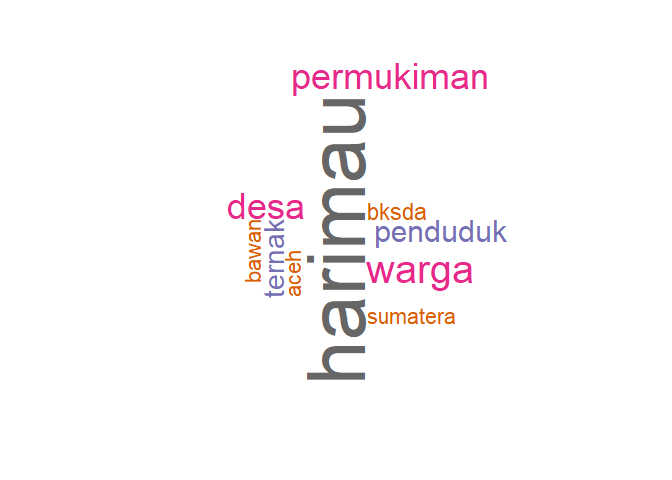
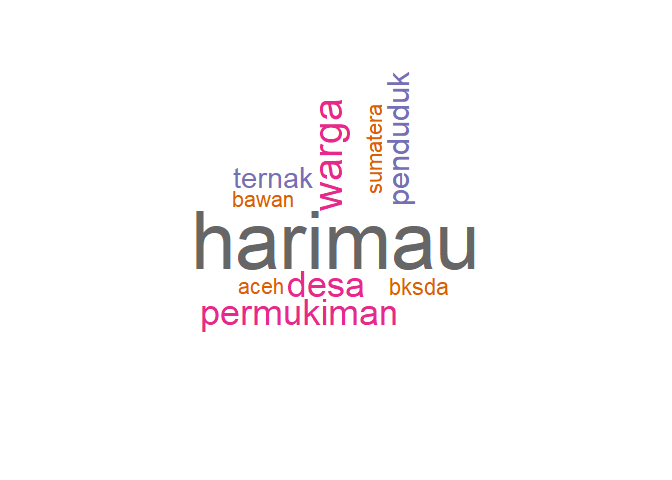
Use base R for data cleaning

Changed region(s): [[0.2812, 0.125, 0.75, 0.8125]]

diff --git a/README.md b/README.md
@@ -192,9 +192,8 @@ Membedah website dengan SelectorGadget
     paket yang diperlukan dengan menjalankan perintah berikut:
 
 ``` r
-library(rvest)
-library(xml2)
-library(tidyverse)
+library(rvest) # Untuk web scraping
+library(tidyverse) # Untuk data cleaning
 ```
 
 Dengan demikian, Anda dapat mulai menulis dan menjalankan kode web
@@ -463,49 +462,48 @@ diinginkan, normalisasi teks seperti mengubah semua huruf menjadi huruf
 kecil yang konsisten atau mengembalikan kata-kata ke bentuk dasar,
 penghapusan data duplikat, validasi data, penghapusan spasi, dan
 penghapusan kata-kata umum yang tidak memberikan makna jika digunakan
-sendiri, seperti ‘dan’, ‘atau’, ‘dari’, ‘ke’, dan lainnya.
+sendiri, seperti ‘dan’, ‘atau’, ‘dari’, ‘ke’, dan lainnya. Daftar
+*stopwords* untuk bahasa Indonesia dapat di download pada [link github
+ini](https://github.com/masdevid/ID-Stopwords)
 
 Tahapan selanjutnya adalah membersihkan data hasil web scraping,
 terutama pada bagian isi berita di mana informasi yang akan dianalisis
 terdapat.
 
 ``` r
-# Memanggil library khusus untuk teks mining
-library(tm)
-#> Loading required package: NLP
-#> 
-#> Attaching package: 'NLP'
-#> The following object is masked from 'package:ggplot2':
-#> 
-#>     annotate
-library(corpus)
-
 # Memanggil contoh data yang akan dibersihkan yang merupakan gabungan dari beberapa isi berita
 teks_kotor <- paste(web_scraping$Berita[1], web_scraping$Berita[2], web_scraping$Berita[3], 
                     web_scraping$Berita[4], web_scraping$Berita[5]) 
 
-# Mengubah ke format COrpus untuk pembersihan
-teks_corpus <- Corpus(VectorSource(teks_kotor))
-
-# Merubah ke huruf kecil
-teks_corpus <- tm_map(teks_corpus, content_transformer(tolower))
+# Merubah semua teks menjadi huruf kecil
+teks_bersih_kecil <- tolower(teks_kotor)
 
 # Menghapus tanda baca
-teks_corpus <- tm_map(teks_corpus, removePunctuation)
+teks_bersih_tandabaca <- gsub("[[:punct:]]", "", teks_bersih_kecil)
 
 # Menghapus angka
-teks_corpus <- tm_map(teks_corpus, removeNumbers)
+teks_bersih_angka <- gsub("\\d+", "", teks_bersih_tandabaca)
+
+# Menghapus ekstra spasi
+teks_bersih_spasi <- trimws(teks_bersih_angka)
 
 # Menghapus stopWords
-# Memanggil stopwords dalam bahasa Indonesia (sumber: https://github.com/masdevid/ID-Stopwords)
+# Memanggil stopwords dalam bahasa Indonesia
+# download pada link [ini](https://github.com/masdevid/ID-Stopwords)
 stopwords_id <- readLines("docs/id.stopwords.02.01.2016.txt") 
-teks_corpus <- tm_map(teks_corpus, removeWords, stopwords_id)
 
-# Menghapus spasi
-teks_corpus <- tm_map(teks_corpus, stripWhitespace)
+# Merubah teks menjadi individual kata
+teks_bersih_vektor <- unlist(strsplit(teks_bersih_spasi, "\\s+"))
+
+# Menghapus stopwords dari barisan kata
+teks_bersih_stopwords <- teks_bersih_vektor[!teks_bersih_vektor %in% stopwords_id]
+
+# Menggabung kembali barisan kata menjadi kalimat dan paragrap
+teks_bersih <- paste(teks_bersih_stopwords, collapse = " ")
 
 # Melihat teks yang telah dibersihkan
-teks_bersih <- as.character(teks_corpus[[1]])
+teks_bersih
+#> [1] "  kabar terkini sang raja rimba muncul permukiman penduduk desa bawan kecamatan sultan daulat kota subulussalamlaporan khalidin i subulussalamserambinewscom subulussalam konflik manusia hewan harimau sumatera kecamatan sultan daulat kota subulussalam meredakabar terkini sang raja rimba muncul permukiman penduduk desa bawan kecamatan sultan daulat kota subulussalaminformasi aksi kawanan harimau berkeliaran permukiman penduduk pindah desa bawan diposting salah mantan anggota dprk subulussalam rasumin pohanrasumin memposting rekaman foto bekas jejak kaki harimau sumatera areal perkebunan permukiman penduduktak bekas jejak kaki postingan diunggah tujuh jam menunjukan jereken mengalami kerusakan bekas gigitan cakaran kasrem tu tinjau pemadaman karhutla nagan raya dinas perpustakaan gelar pertemuan keuchik pengelola perpustakaan aceh wali kota banda aceh launching aplikasi tapping box optimalkan penerimaan pajaksehari pengakuan kandong maha salah tokoh pemuda kecamatan sultan daulatpak kandong maha mengaku masyarakat bawan ketakutan akibat harimau muncul daerah itusebelumnya kawanan harimau masuk permukiman penduduk berhasil diusir balai konservasi sumber daya alam bksda jasa pawang sarwani sabi alias carwanikepala seksi wilayah ii subulussalam bksda hadi sofyan dikonfirmasi serambinewscom membenarkan laporan harimau masuk permukiman penduduk desa bawan kecamatan sultan daulatatas tim bksda pekan bercamp desa singgersing diterjunkan desa bawan dicek jejak kaki harimau desa bawanhadi sofyan timnya menemukan jejak kaki satwa dilindungi membantah ternak warga desa bawan dimangsa harimau terkat bksda hadi sofyan memasang kamera trap lokasi dilaporkan melacak individu harimau terkaitjejak ternak dimangsa pasang kamera trap lokasi laporan hadi sofyansebagaimana diberitakan pekan harimau sumatera warawiri permukiman penduduk desa singgersing kecamatan sultan daulat kota subulussalam masyarakat resah kawanan harimau sumatera panthera tigris sumatrae berkeliaran permukiman penduduk areal perkebunan setempatterus terang terancam harimaunya malam turun kampong nasution salah warga desa singgersing serambinewscom rabu nasution selasa malam kawanan harimau masuk permukiman penduduk menerkam ternak sapi milik rama warga desa singgersingmeski memangsa habis tubuh punggung leher ternak sapi terluka parah akibat cakaran gigitan sang raja hutan kandang ternak milik rama persis rumahnya jalan nasionalmasuknya harimau nekat menerkam ternak rumah masyarakat singgersing resahapalagi harimau masuk permukiman penduduk dikabarkan ekor kambing hilangharimau masuk meter rumah penduduk posisi harimau belasan meter rumah pendudukmasalahnya balai konservasi sumber daya alam bksda tindakan penangkapan rangka menanggulangi harimau meresahkanpadahal aksi harimau permukiman penduduk berpotensi mencelakai manusia warga mendesak bksda bertindak korban manusiajangan korban jiwa manusia bertindak ternak diterkam warga ketakutan membahayakan manusia wargamenurut nasution harimau muncul permukiman penduduk malam wib tanggungtanggung binatang buas masuk permukiman penduduk merusak kandang ternak sapi warga sanaharimau berusaha menerkam sapi ternak warga rumahnya kandang pemilik rumahakibat terkaman harimau tubuh punggung sapi terluka parah luka persis leher kaki pangkal kaki depansementara tujuh ekor lari terbiritbirit rumah warga menghindari terkaman satwa dilindungi nasution ekor sapi warga hilang diduga ketakutan dna lari hutan sapi milik rama ekor pekan ekor sapi diterkam sang raja hutan ekor sapi rama mangsakini sapi rama tinggal delapan ekor malam sang harimau menerkam melukai sapi milik rama ekor hilang berdasarkan informasi sebulan harimau berkeliaran permukiman penduduk pekan harimau menjadijadi sang harimau muncul wib balai konservasi sumber daya alam bksda wilayah ii subulussalam sebatas turun menyalakan mercon pawang sayangnya upaya ritual pawang mengusir sang harimau saban malam masuk permukiman pendudukkini warga gerah mendesak bksda menanggulangi aksi harimau pasalnya akibat harimau warga ketakutan berusaha tidur warga mengaku nyaman warga bksda menunggu jatuhnya korban jiwa aksi harimau sanapihak bksda tunggu korban manusia harimau meresahkan samping rumah bahaya korban jiwa wargasebelumnya harimau sumatera masuk permukiman penduduk desa singgersing kecamatan sultan daulat kota subulussalam senin malam ternak kambing warga dilaporkan dimangsa sang raja hutan ajeng salah masyarakat desa singgersing dikonfirmasi serambinewscom harimau masuk permukiman penduduk wib posisi harimau rumah penduduk hitungan puluhan meter harimaunya an meter ajeng wartawanajeng mengaku ketakutan akibat teror harimau desa pasalnya berkeliaran mendekat aksi pengusiran berhasil warga berharap berenang mengambil langkah sigap menghalau kawanan harimau mencelakai manusiajakarsi ketua badan permusyawaratan kampong bpk desa singgersing melaporkan jakarsi warga sempa menyisir jejak telapak kaki harimau barutampak bekas penyeretan ternak wargamalam masul harimaunya lokasi bekas jejak kaki kayanya bekas seretan kambing terang jakarsi seraya riual pengusiran pawang berdampak apapun laporan rahmad wiguna aceh tamiangserambinewscom kualasimpang kemunculan harimau seputaran objek wisata aceh tamiang sorotan serius aktivisfenomena aktivis dampak pembukaan spot objek wisata kajian lingkungankesimpulan manajer riset kawasan ekosistem pulau sumatera kempra andi nur muhammad kali menelusuri langsung jejak harimau kawasan hulu aceh tamiangmenurutnya kehadiran harimau wilayah ekspansi habitat asli harimau sumatrasebenarnya temanteman petualangan pecinta alam harimau gajah orangutan kawasan lokasi dijadikan objek wisata nama tamsar andi senin tim pemulasaran jenazah pasien covid pingsan makamkan warga prokes malam total pasien covid aceh sembuh capai orang akumulasi dewi persik ingatkan suami kawin ketahuan lakukan iniandi mengaku terkejut kemunculan harimau wilayah dibukanya wilayah objek wisata barulah spesies dilindungi sambungnyahal terlepas dibukanya kawasan objek wisata menyayangkan pembukaan spot diawali kajian lingkungan dampak analisiskesannya mendadak tibatiba dengar daerah dijadikan daerah ekowisata kajian lingkungannya paparnyakondisi diperparah penguasaan wilayah hutan mempersempit jarak jelajah harimaudia khawatir penanganan serius konflik manusia hewan buas aceh tamiang sekda langsa sembuh pasien positif covid dinyatakan sehat orang penyembuhan video azerbaijan bebaskan jabrayil konflik armenia brimob nagan raya datangi kompi b krueng isep surprise kue hut tniseperti harimau muncul perkebunan warga kampung bengkelang bandarpusaka aceh tamiang memangsa seekor lembu milik warga jumat lokasi penampakan harimau persimpangan objek wisata sangkapane hewan buas seputaran lokasi wisata kuala paret kampung kaloy tamiang hulusebaiknya warga mendekati lokasi bangkai lembu kebiasaan harimau memakan hasil tangkapannya pesan andi laporan khalidin subulussalamserambinewscom subulussalam  warga kesaksian teror harimau sumatera desa kecamatan sultan daulat kota subulussalamsebenarnya singgersing darul makmur harimau masuk bawan kemarin muncul kandong maha aktivis pemuda kecamatan sultan daulat serambinewscom selasa kandong membeberkan fakta terkait kemunculan harimau desa bawan rumah pendudukdikatakan harimau muncul kamis malam jumat andong berkeliaran harimau menyasar ternak masyarakat kambingandong ternak warga desa bawan diserang harimau terakhir  ternak diserang kambing milik saudaranya bernama takwa beruntung kambing terluka disembelih pemilikbukan warga menyaksikan atraksi harimau menyasar ternak warga naik  pohon pinang menerkamselain andong harimau diduga menyasar ternak warga desa gunung bakti berdasarkan ditemukannya sisa isi perut kambing kebun rumah andong andong kambing milik manaf diduga kuat korban terkaman harimausaya pastikan ternak diserang harimau bksda serius menangani andonglebih andong harimau ditangkap dilepas habitatnya serangan permukiman penduduk bawan diduga kemarahan harimau penangkapan anaknyaandong bksda bekerjasama pawang lokal memahami karakteristik harimau hutan tersebutseperti diberitakan konflik manusia hewan harimau sumatera kecamatan sultan daulat kota subulussalam meredakabar terkini sang raja rimba muncul permukiman penduduk desa bawan kecamatan sultan daulat kota subulussalaminformasi aksi kawanan harimau berkeliaran permukiman penduduk pindah desa bawan diposting salah mantan anggota dprk subulussalam rasumin pohanrasumin memposting rekaman foto bekas jejak kaki harimau sumatera areal perkebunan permukiman penduduktak bekas jejak kaki postingan diunggah tujuh jam menunjukan jereken mengalami kerusakan bekas gigitan cakaransehari pengakuan kandong maha salah tokoh pemuda kecamatan sultan daulat kandong maha mengaku masyarakat bawan ketakutan akibat harimau muncul daerah itusebelumnya kawanan harimau masuk permukiman penduduk berhasil diusir balai konservasi sumber daya alam bksda jasa pawang sarwani sabi alias carwanikepala seksi wilayah ii subulussalam bksda hadi sofyan dikonfirmasi serambinewscom membenarkan laporan harimau masuk permukiman penduduk desa bawan kecamatan sultan daulatatas tim bksda pekan bercamp desa singgersing diterjunkan desa bawan dicek jejak kaki harimau desa bawanhadi sofyan timnya menemukan jejak kaki satwa dilindungi membantah ternak warga desa bawan dimangsa harimau terkat bksda hadi sofyan memasang kamera trap lokasi dilaporkan melacak individu harimau terkaitjejak ternak dimangsa pasang kamera trap lokasi laporan hadi sofyansebagaimana diberitakan pekan harimau sumatera warawiri permukiman penduduk desa singgersing kecamatan sultan daulat kota subulussalammasyarakat resah oleh kawanan harimau sumatera  panthera tigris sumatrae  yang berkeliaran permukiman penduduk areal perkebunan setempatterus terang terancam harimaunya malam turun kampong nasution salah warga desa singgersing serambinewscom rabu nasution selasa malam kawanan harimau masuk permukiman penduduk menerkam ternak sapi milik rama warga desa singgersingmeski memangsa habis tubuh punggung leher ternak sapi terluka parah akibat cakaran gigitan sang raja hutan kandang ternak milik rama persis rumahnya jalan nasionalmasuknya harimau kembali nekat menerkam ternak rumah masyarakat singgersing resahapalagi sebelumnya harimau juga masuk permukiman penduduk dikabarkan ekor kambing hilang harimau masuk meter rumah penduduk posisi harimau hanya belasan meter rumah penduduk teror harimau sumatera mereda subulussalam giliran desa bawan sasaran mahasantri aceh utara raih juara lomba vlog kasrem tu tinjau pemadaman karhutla nagan raya bener meriah gelar apel kesiapsiagaan bencana pasukan dikerahkan masuk kampung kawanan harimau sumatera terkam ekor kerbau wargabanda aceh kepala badan konservasi sumber daya alam bksda aceh sapto aji prabowo membenarkan laporan masuknya harimau sumatera kampung wargasejak rabu malam tim bksda resort wilayah aceh monitor desa patroli menenangkan warga sapto aji kamis kamis pagi sapto aji tim bksda resort pawang harimau patroli hutan desa kute keramil memantau keberadaan harimau tersebutmereka patroli hutan terima hasil patroli dihutan sapto ajibaca warga pasar riau dihebohkan munculnya harimau sumaterawarga desa kute keramil kecamatan linge isaq kabupaten aceh dikejutkan kehadiran kawanan harimau sumatera desa rabu warga menemukan ekor kerbau kondisi tubuh tercabik sore berdasarkan kesaksian sahrin warga kute keramil ekor kerbau miliknya dimakan harimau rabu induk anaknya induknya disembelih anak kerbau habis dimakan sahrin sahrin harimau ekor induk remaja warga bekas tapak harimau mencapai ekor sahrinwarga berharap terkait menangani secepatnya konflik satwa memakan korban baca harimau sumatera masuk pasar makan kambing sapto aji kali harimau turun perkampungan warga lokasi didatangi harimau keberadaan hutan sempit akkbat perambahan pembukaan lahan penyebab meningkatnya konflik satwa liar manusia acehkendati upaya penangan konflik meminimalisir konflik satwa liar manusia ditingkatkan meningkatkan pemahaman konservasi aparat penegak hukummisalnya kabar baiknya perdagangan kulit harimau dipersidangkan aceh harap pelaku hukuman setimpal sapto aji prabowo  baca tersisa jenis harimau dunia salah satunya indonesia tulis komentarmu tagar jernihberkomentar menangkan evoucher pemenangdapatkan informasi insight pilihan redaksi kompascomperiksa lengkapi data dirimudata dirimu verifikasi akun membutuhkan bantuan ditemukan aktivitas akunmusegera lengkapi data dirimu ikutan program jernihberkomentar penyebab harimau masuk permukiman mangsa ternak warga acehaceh utara kompascom kepala seksi konservasi wilayah i lhokseumawe badan konservasi sumber daya alam bkdsa aceh kamarudzaman harimau sumatera turun permukiman warga kecamatan langkahan aceh utara dipicu kerusakan hutan kabar harimau masuk permukiman perkebunan warga alih fungsi lahan penebangan hutan habitatnya terganggu turun permukiman penduduk kamarudzaman dihubungi sabtu baca duduk perkara petani kopi tewas diterkam harimau diduga perburuan habitat rusak perburuan rusa marak aceh mengakibatkan makanan harimau tercukupisehingga bertahan hidup harimau memangsa hewan ternak milik warga turun kampung makanannya kawasan hutan menipis rusa diburu harimau cari makanan permukiman warga memakan hewan ternak kamarudzaman menjaga kelestarian hutan pemerintah komunitas masyarakatsehingga harimau sumatera kawasan hutan turun permukiman diberitakan harimau turun permukiman warga desa leubok pusaka kecamatan langkahan aceh utaralima sapi milik petani mati dimangsa hewan dilindungi november baca jejak harimau sumatera ditemukan permukiman warga riautulis komentarmu tagar jernihberkomentar menangkan evoucher pemenangdapatkan informasi insight pilihan redaksi kompascomperiksa lengkapi data dirimudata dirimu verifikasi akun membutuhkan bantuan ditemukan aktivitas akunmusegera lengkapi data dirimu ikutan program jernihberkomentar"
 ```
 
 ## VI. Beberapa contoh analisis data yang dapat dilakukan dengan menggunakan web scraping
@@ -530,7 +528,7 @@ kata_teratas <- head(frekuensi_terurut, 10)
 kata_teratas
 #> teks
 #>    harimau      warga       desa permukiman   penduduk     ternak      bksda 
-#>         90         40         35         35         28         25         19 
+#>         90         41         35         35         29         26         19 
 #>       aceh      bawan   sumatera 
 #>         18         18         18
 
@@ -600,7 +598,7 @@ sentiment_scores <- sentiment(teks_bersih)
 # Print sentiment scores
 print(sentiment_scores)
 #>    element_id sentence_id word_count  sentiment
-#> 1:          1           1       1723 -0.1252739
+#> 1:          1           1       1731 -0.1249841
 ```
 
 Skor hasil analisis sentimen mencerminkan polaritas sentimen teks,
@@ -661,20 +659,20 @@ teks_suku_kata
 #> 5  penduduk           
 #> 6  ternak             
 #> 7  permukiman penduduk
-#> 8  ”                  
-#> 9  bksda              
-#> 10 masuk              
-#> 11 sumatera           
-#> 12 aceh               
-#> 13 bawan              
-#> 14 harimau sumatera   
-#> 15 kecamatan          
-#> 16 hutan              
-#> 17 desa bawan         
-#> 18 ekor               
-#> 19 jejak              
-#> 20 kecamatan sultan   
-#> ⋮  (1816 rows total)
+#> 8  bksda              
+#> 9  masuk              
+#> 10 sumatera           
+#> 11 aceh               
+#> 12 bawan              
+#> 13 harimau sumatera   
+#> 14 kecamatan          
+#> 15 hutan              
+#> 16 desa bawan         
+#> 17 ekor               
+#> 18 kecamatan sultan   
+#> 19 masuk permukiman   
+#> 20 sapi               
+#> ⋮  (1806 rows total)
 
 # Ekstraksi nama desa yang dicari yang terdapat pada teks pada website pertama
 # Memanggil pustaka stringdist
